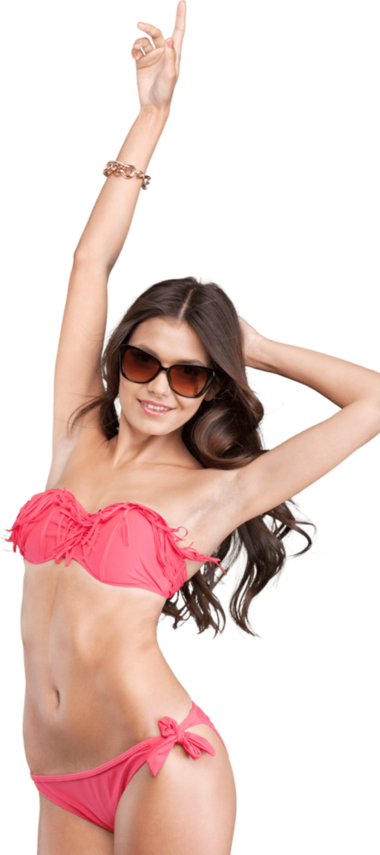
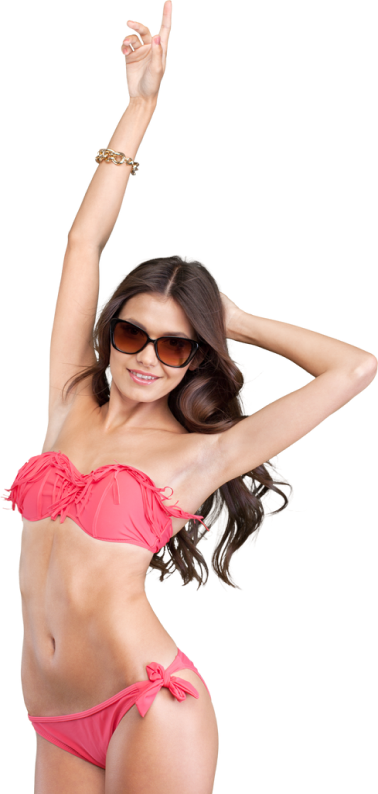
hero fix

diff --git a/src/html/template-parts/sections/home/hero.html b/src/html/template-parts/sections/home/hero.html
@@ -60,7 +60,7 @@
 				and transformed it into a glamorous experience that’s as empowering as it is exciting!
 			</p>
 			<img class="girl__left" src="img/home/hero/girl1.png" width="490" height="794" alt=""></img>
-			<img class="girl__right" src="img/home/hero/girl2.png" width="347" height="794" alt=""></img>
+			<img class="girl__right" src="img/home/hero/girl2.png" width="377" height="794" alt=""></img>
 		</div>
 	</div>
 </section>

diff --git a/src/scss/sections/home/hero.scss b/src/scss/sections/home/hero.scss
@@ -161,11 +161,11 @@
 
 	.girl__left {
 		left: -225px;
-		top: -510px;
+		top: -508px;
 	}
 
 	.girl__right {
-		right: -300px;
-		top: -600px;
+		right: -330px;
+		top: -613px;
 	}
 }
